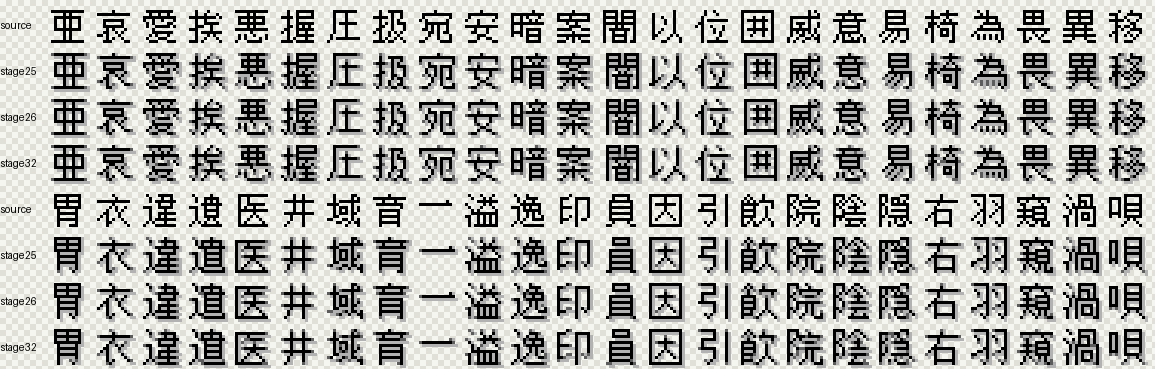
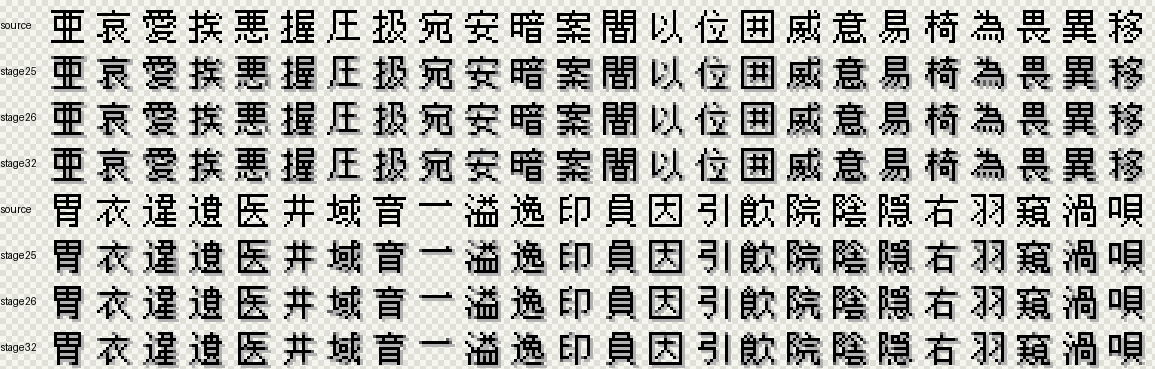
fix: regenerate comparison rows per source font

diff --git a/scripts/build_public_comparison_contact.py b/scripts/build_public_comparison_contact.py
@@ -12,8 +12,15 @@ SRC = ROOT / "src"
 if str(SRC) not in sys.path:
     sys.path.insert(0, str(SRC))
 
+from font_machine_learn.baseline import levels_to_image  # noqa: E402
 from font_machine_learn.nftr import checkerboard  # noqa: E402
+from font_machine_learn.paths import TARGET_METADATA  # noqa: E402
+from font_machine_learn.song13_layer_mlp import predict_source_locked_levels  # noqa: E402
+from font_machine_learn.song13_source_locked import SourceLockedRule, source_locked_levels  # noqa: E402
+from font_machine_learn.song13_torch_cnn import train_target_ge2_cnn  # noqa: E402
 from font_machine_learn.source_font import quantize_mask_to_1bpp, render_mask  # noqa: E402
+from font_machine_learn.stage26_full_nftr import train_stage26_heads  # noqa: E402
+from font_machine_learn.target_torch_cnn import predict_levels  # noqa: E402
 
 
 DEFAULT_OUT_DIR = Path("docs/assets")
@@ -73,6 +80,19 @@ def render_source_image(
     return quantize_mask_to_1bpp(mask, threshold)
 
 
+def source_image_to_mask(image: Image.Image) -> list[list[bool]]:
+    alpha = image.convert("RGBA").getchannel("A")
+    width, height = alpha.size
+    return [[alpha.getpixel((x, y)) > 0 for x in range(width)] for y in range(height)]
+
+
+def mask_to_tensor(mask: list[list[bool]]):
+    import numpy as np
+    import torch
+
+    return torch.from_numpy(np.asarray(mask, dtype=np.float32)[None, :, :])
+
+
 def paste_image_scaled(sheet: Image.Image, image: Image.Image, xy: tuple[int, int], scale: int) -> None:
     scaled = image.convert("RGBA").resize((image.width * scale, image.height * scale), Image.Resampling.NEAREST)
     sheet.alpha_composite(scaled, xy)
@@ -89,8 +109,8 @@ def make_sheet(
     source_config: dict,
     indices: list[int],
     stage25: dict[int, dict],
-    stage26: dict[int, dict],
-    stage32: dict[int, dict],
+    stage26_models: tuple[object, object],
+    stage32_model: object,
     out_png: Path,
     glyph_count: int,
     columns: int,
@@ -119,27 +139,38 @@ def make_sheet(
         x = label_width + pad + col * (tile_w + pad)
         y = pad + group * (group_h + pad)
         char = first_char(list(stage25[index]["chars"]))
+        source_image = render_source_image(
+            char,
+            font=font,
+            cell_width=cell_width,
+            cell_height=cell_height,
+            **source_config,
+        )
+        source_mask = source_image_to_mask(source_image)
+        stage25_levels = source_locked_levels(
+            source_mask,
+            SourceLockedRule("edge_n1_diag_plus_right_from_source", 1, "diag_plus_right", "source"),
+        )
+        stage26_levels = predict_source_locked_levels(
+            stage26_models[0],
+            stage26_models[1],
+            source_mask,
+            patch_radius=4,
+            core_threshold=0.55,
+            shadow_threshold=0.45,
+        )
+        stage32_levels = predict_levels(stage32_model, mask_to_tensor(source_mask))
         row_images = {
-            "source": render_source_image(
-                char,
-                font=font,
-                cell_width=cell_width,
-                cell_height=cell_height,
-                **source_config,
-            ),
-            "stage25": stage25[index]["predicted_png"],
-            "stage26": stage26[index]["predicted_png"],
-            "stage32": stage32[index]["predicted_png"],
+            "source": source_image,
+            "stage25": levels_to_image(stage25_levels),
+            "stage26": levels_to_image(stage26_levels),
+            "stage32": levels_to_image(stage32_levels),
         }
         for row, label in enumerate(labels):
             row_y = y + row * (tile_h + pad)
             if col == 0:
                 draw.text((pad, row_y + max(0, (tile_h - 8) // 2)), label, fill=(0, 0, 0, 255), font=label_font)
-            image_or_path = row_images[label]
-            if isinstance(image_or_path, Image.Image):
-                paste_image_scaled(sheet, image_or_path, (x, row_y), scale)
-            else:
-                paste_path_scaled(sheet, image_or_path, (x, row_y), scale)
+            paste_image_scaled(sheet, row_images[label], (x, row_y), scale)
 
     out_png.parent.mkdir(parents=True, exist_ok=True)
     sheet.save(out_png)
@@ -157,6 +188,7 @@ def build_public_comparison(
     stage25_metadata: Path,
     stage26_metadata: Path,
     stage31_metadata: Path,
+    target_metadata: Path,
     out_dir: Path,
     metadata_json: Path,
     glyph_count: int,
@@ -173,6 +205,24 @@ def build_public_comparison(
         raise ValueError("No shared CJK glyphs found across Stage25, Stage26, and Stage31 metadata")
 
     source_config = {"threshold": 96, "font_mode": "L", "x_offset": -1, "y_offset": 1}
+    target = json.loads(target_metadata.read_text(encoding="utf-8"))
+    stage26_models = train_stage26_heads(
+        target_metadata,
+        patch_radius=4,
+        max_train_glyphs=None,
+        core_hidden_units=64,
+        shadow_hidden_units=64,
+        max_iter=80,
+        random_seed=26,
+    )
+    stage32_model, _losses, _device, _cuda_device = train_target_ge2_cnn(
+        list(target["glyphs"]),
+        channels=48,
+        epochs=200,
+        batch_size=128,
+        learning_rate=0.003,
+        random_seed=32,
+    )
     sheets = [
         make_sheet(
             name="song13",
@@ -180,8 +230,8 @@ def build_public_comparison(
             source_config=source_config,
             indices=indices,
             stage25=stage25,
-            stage26=stage26,
-            stage32=stage32,
+            stage26_models=stage26_models,
+            stage32_model=stage32_model,
             out_png=out_dir / "stage32_public_comparison_song13.png",
             glyph_count=glyph_count,
             columns=columns,
@@ -195,8 +245,8 @@ def build_public_comparison(
             source_config=source_config,
             indices=indices,
             stage25=stage25,
-            stage26=stage26,
-            stage32=stage32,
+            stage26_models=stage26_models,
+            stage32_model=stage32_model,
             out_png=out_dir / "stage32_public_comparison_song12.png",
             glyph_count=glyph_count,
             columns=columns,
@@ -217,6 +267,8 @@ def build_public_comparison(
                 "stage25_metadata": str(stage25_metadata),
                 "stage26_metadata": str(stage26_metadata),
                 "stage31_metadata": str(stage31_metadata),
+                "target_metadata": str(target_metadata),
+                "stage_rows_note": "Stage25, Stage26, and Stage32 rows are generated from each sheet's own source font.",
             },
             ensure_ascii=False,
             indent=2,
@@ -231,6 +283,7 @@ def main() -> None:
     parser.add_argument("--stage25-metadata", type=Path, default=Path("data/processed/glyphs/stage25_song13_source_locked/song13_source_locked_metadata.json"))
     parser.add_argument("--stage26-metadata", type=Path, default=Path("data/processed/glyphs/stage26_song13_layer_mlp/song13_layer_mlp_metadata.json"))
     parser.add_argument("--stage31-metadata", type=Path, default=Path("data/processed/glyphs/stage31_song13_torch_cnn/song13_torch_cnn_metadata.json"))
+    parser.add_argument("--target-metadata", type=Path, default=TARGET_METADATA)
     parser.add_argument("--out-dir", type=Path, default=DEFAULT_OUT_DIR)
     parser.add_argument("--metadata", type=Path, default=DEFAULT_OUT_DIR / "stage32_public_comparison.json")
     parser.add_argument("--glyph-count", type=int, default=48)
@@ -243,6 +296,7 @@ def main() -> None:
         stage25_metadata=args.stage25_metadata,
         stage26_metadata=args.stage26_metadata,
         stage31_metadata=args.stage31_metadata,
+        target_metadata=args.target_metadata,
         out_dir=args.out_dir,
         metadata_json=args.metadata,
         glyph_count=args.glyph_count,
